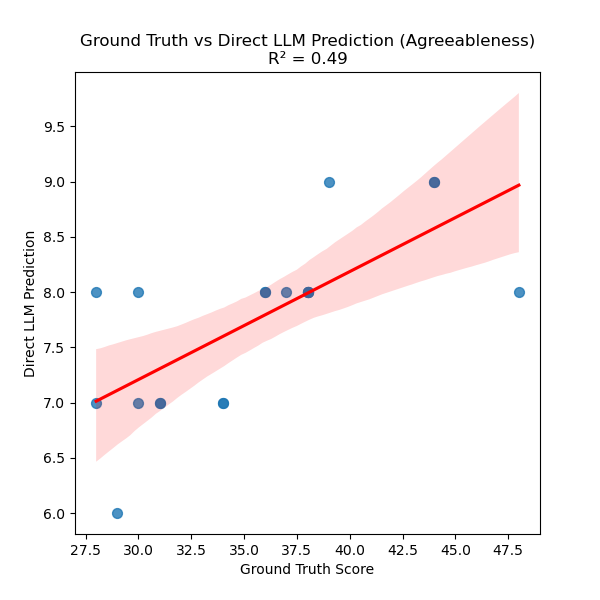
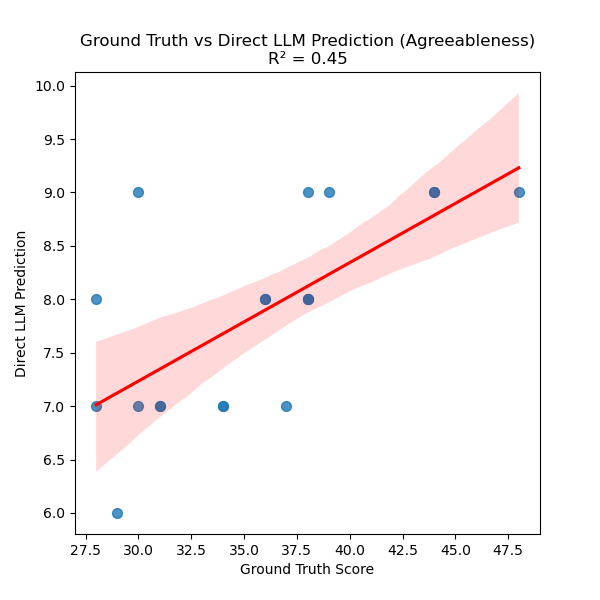
Explain scores and add monitoring

diff --git a/src/fill_latents.py b/src/fill_latents.py
@@ -2,6 +2,7 @@
 
 import os
 import sys
+import time
 import json
 import logging
 from prompt import build_prompt
@@ -60,12 +61,12 @@ Template:
 {blank_latent_text}
 """
     # Debugging: Print API key right before the request
-    print(f"Using API Key for request: {os.getenv('TOGETHER_API_KEY')[0:5]}")
+    print(f"Using API Key for request: {os.getenv('TOGETHER_API_KEY')[0:5]}...")
 
     try:
         # Create a chat completion request
         response = client.chat.completions.create(
-            model="meta-llama/Meta-Llama-3-8B-Instruct-Lite", ## Use             model="meta-llama/Meta-Llama-3.1-405B-Instruct-Turbo",
+            model="meta-llama/Meta-Llama-3.1-405B-Instruct-Turbo", ## Use             model="meta-llama/Meta-Llama-3.1-405B-Instruct-Turbo",
             messages=[
                 {"role": "user", "content": prompt}
             ],
@@ -167,16 +168,24 @@ def main():
         logging.error("Blank latent 'full_text' is empty. Exiting.")
         sys.exit(1)
 
+    # Start timing
+    start_time = time.time()
+
     # Get list of user JSON files
     user_files = list_files(users_dir, extension=".json")
     if not user_files:
         logging.error("No user JSON files found in 'data/users/'. Exiting.")
         sys.exit(1)
 
-    for user_file in user_files:
+    total_users = len(user_files)  # Total number of users
+    logging.info(f"Processing {total_users} users...")
+
+    for index, user_file in enumerate(user_files, start=1):
         user_id_full = os.path.splitext(user_file)[0]  # e.g., 'user_001'
         user_id = user_id_full.split('_')[1]  # Extract '001' from 'user_001'
         user_json_path = os.path.join(users_dir, user_file)
+
+        logging.info(f"Processing user {index}/{total_users}: {user_id_full}")
 
         # Load the user data
         user_data = load_user_data(user_id)
@@ -228,6 +237,11 @@ def main():
             logging.warning(f"No filled latent generated for User: {user_id_full}.")
 
         #break # Remove this line to process all users
+    
+    # End timing
+    end_time = time.time()
+    total_time = end_time - start_time
+    logging.info(f"✅ Processing complete! Total time: {total_time:.2f} seconds.")
 
 if __name__ == "__main__":
     main()

diff --git a/src/prompt.py b/src/prompt.py
@@ -91,8 +91,9 @@ def score_without_rubric(user_data, wave=1):
 
     # Format the prompt
     prompt = f"""
-    You are an AI psychologist assessing a participant based on their responses to 60 personality-related questions.
-    Each response is rated from 1 to 5. The participant's responses are provided below.
+    You are an AI psychologist assessing a participant based on their answers to 60 personality-related questions.
+    Answers are scored from 1 to 5, depending on how much the participant agrees with the statement (strongly disagree, disagree, neutral, agree, strongly agree).
+    The participant's responses are provided below.
     
     Fill in the ____ blanks with an evaluation of their personality trait on a scale from 1 to 10 for each of the following traits:
     - **openness**
